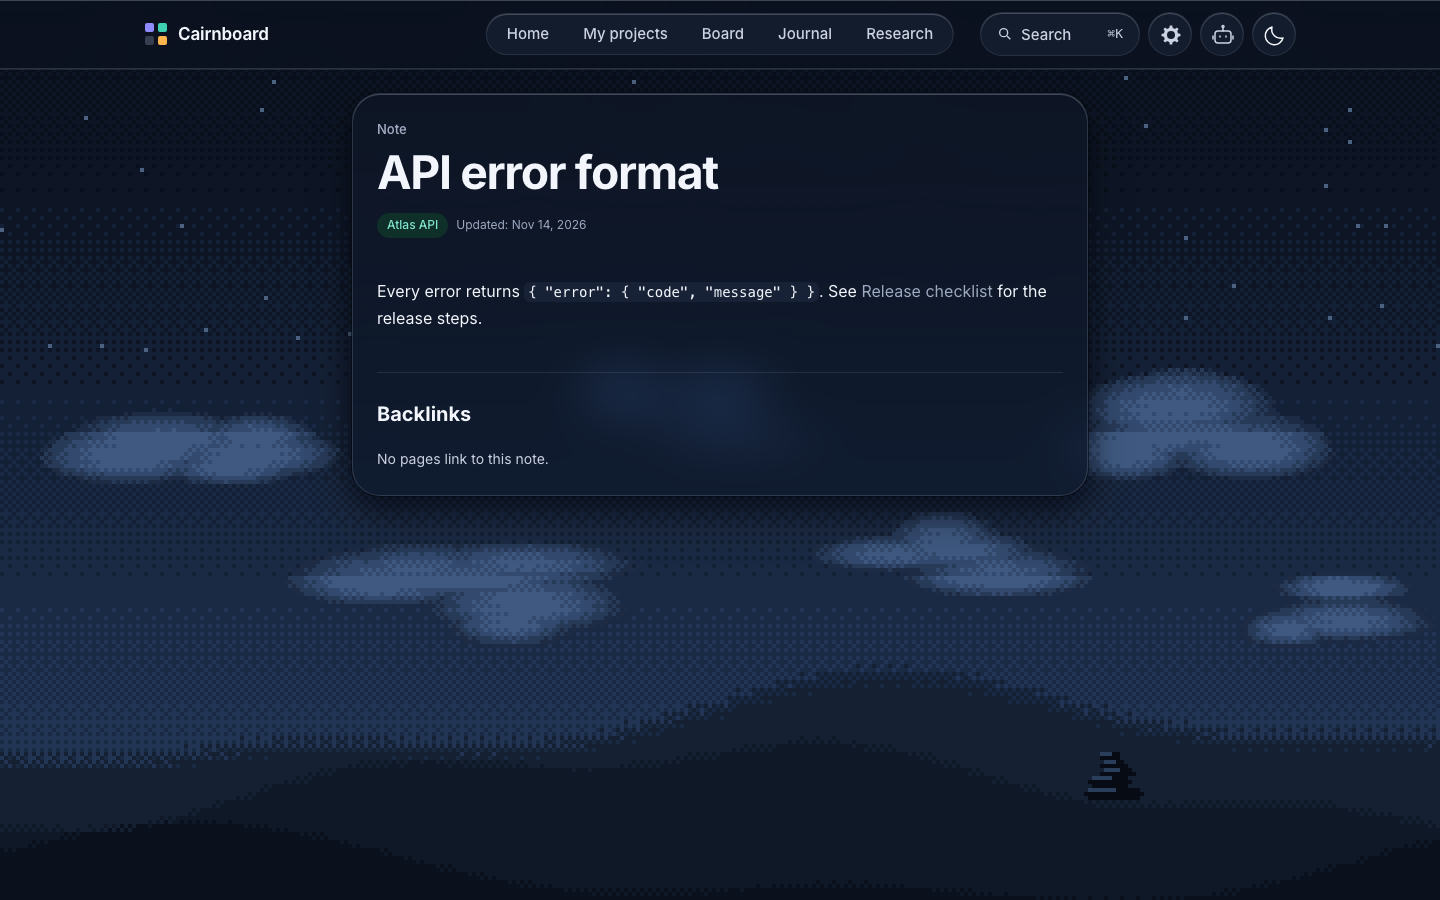
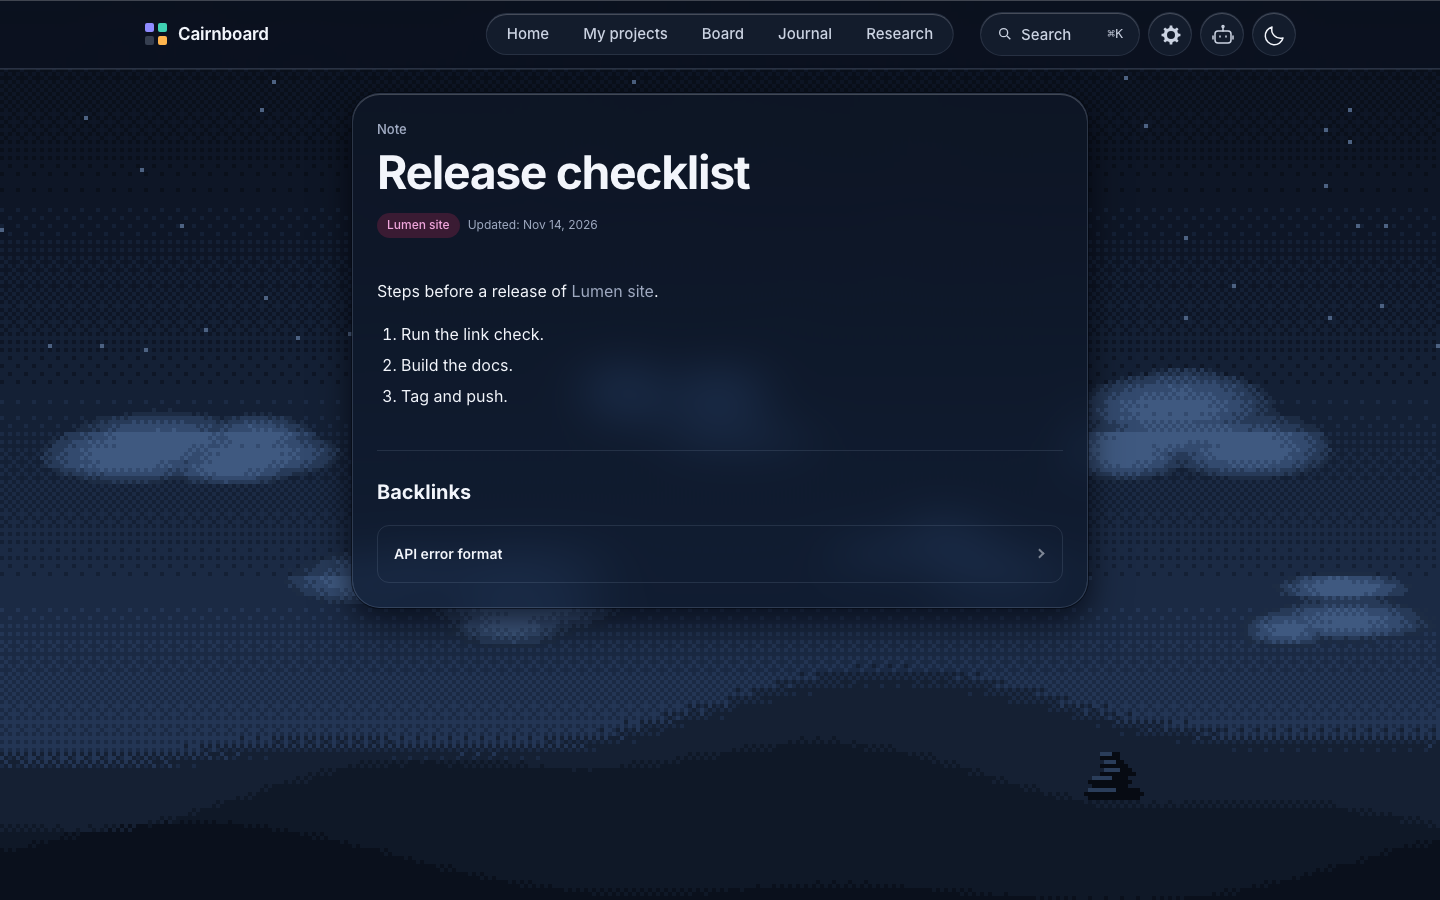
docs: apply README review fixes
- Vault detection example runs as written (built CLI path and --actor).
- The note screenshot shows a backlink; the demo note links by file name.
- English dates use one locale (en-US) in tooltips and metadata.
- Describe the CLI output as a versioned JSON envelope, not stable.
- Document npm run screenshots and its Chromium need; reject a bad --scale.
- The default-language test no longer depends on the caller's environment.

diff --git a/README.tr.md b/README.tr.md
@@ -28,7 +28,7 @@ ilerlemesini yazar ve yaptığını günlüğe kaydeder. Cairnboard ajan başlat
 
 - **Düz dosyalar.** Kartlar, notlar ve günlük günleri ön bilgili (frontmatter) Markdown dosyalarıdır. Her
   düzenleyicide ya da Obsidian'da açılır, Git ile yedeklenir.
-- **Ajanlar için yapıldı.** Sürüm numarası, kira süresi ve çıkış kodlarıyla kararlı bir `--json` komut satırı; ajan
+- **Ajanlar için yapıldı.** Sürüm numarası, kira süresi ve çıkış kodlarıyla sürümlü bir `--json` çıktısı; ajan
   kartı alır, kabul ölçütlerini işaretler ve sizin düzenlemelerinizi ezmeden kapatır.
 - **Birçok proje tek yerde.** Pano, geri bağlantılı wiki, günlük ve ayrı bir ajan panosu.
 - **Yalnız yerel.** Sunucu yalnız bu bilgisayardan erişilir, her sayfa oturum çerezi ister; verileriniz
@@ -61,7 +61,8 @@ npm start
 tarayıcınızı tek kullanımlık bir giriş bağlantısıyla açar. Sonra çalışan sunucuyu `node dist/cairn.mjs open` ile
 yeniden açarsınız (`npm link` yaptıysanız `cairn open`).
 
-Var olan bir Obsidian kasanız mı var? `cairn init --detect "./kasa" --dry-run` klasörlerin nasıl eşleneceğini
+Var olan bir Obsidian kasanız mı var? `node dist/cairn.mjs init --detect "./kasa" --dry-run --actor owner`
+klasörlerin nasıl eşleneceğini
 notlarınıza dokunmadan gösterir. Bkz. [CLI](docs/tr/cli.md).
 
 ## Ajanınızla kullanın
@@ -97,7 +98,7 @@ ayrı bir ajan panosuna taşınır; ajan işi sizinkinden ayrı durur.
 | --- | --- |
 | <picture><source media="(prefers-color-scheme: dark)" srcset="docs/images/home-dark.png"><img src="docs/images/home-light.png" alt="Ana sayfa: çalışma alanı özeti, günlük takvimi ve proje ilerlemesi"></picture> | <picture><source media="(prefers-color-scheme: dark)" srcset="docs/images/card-dark.png"><img src="docs/images/card-light.png" alt="Pencerede açılmış bir kart, Şimdi ve Sonra satırlarıyla"></picture> |
 | Ana sayfa | Kart |
-| <picture><source media="(prefers-color-scheme: dark)" srcset="docs/images/note-dark.png"><img src="docs/images/note-light.png" alt="Başka bir nota bağlantı veren wiki notu ve geri bağlantıları"></picture> | <picture><source media="(prefers-color-scheme: dark)" srcset="docs/images/journal-dark.png"><img src="docs/images/journal-light.png" alt="İki işin, bir kararın ve bir bulgunun yazılı olduğu günlük günü"></picture> |
+| <picture><source media="(prefers-color-scheme: dark)" srcset="docs/images/note-dark.png"><img src="docs/images/note-light.png" alt="Proje bağlantısı ve başka bir nottan gelen geri bağlantısıyla bir wiki notu"></picture> | <picture><source media="(prefers-color-scheme: dark)" srcset="docs/images/journal-dark.png"><img src="docs/images/journal-light.png" alt="İki işin, bir kararın ve bir bulgunun yazılı olduğu günlük günü"></picture> |
 | Wiki notu | Günlük |
 
 Görseller kurgusal veriyle `npm run screenshots` komutuyla üretilir.

diff --git a/README.md b/README.md
@@ -27,8 +27,8 @@ may still change. The interface speaks the data folder's language, English or Tu
 
 - **Plain files.** Cards, notes and journal days are Markdown with frontmatter. Read them in any editor or Obsidian,
   back them up with Git.
-- **Built for agents.** A stable `--json` CLI with revisions, leases and exit codes, so an agent can claim a card,
-  tick its acceptance checks and close it without stepping on your edits.
+- **Built for agents.** A versioned `--json` envelope with revisions, leases and exit codes, so an agent can claim a
+  card, tick its acceptance checks and close it without stepping on your edits.
 - **One place for many projects.** A board, a wiki with backlinks, a journal and a separate agent board.
 - **Local only.** The server listens on loopback and every page needs a sign-in cookie; your data stays on your machine.
 
@@ -59,7 +59,8 @@ npm start
 only and opens your browser with a one-time sign-in link. Later, `node dist/cairn.mjs open` reopens a running
 instance (or `cairn open` after `npm link`).
 
-Already have an Obsidian vault? `cairn init --detect "./vault" --dry-run` previews how its folders would map,
+Already have an Obsidian vault? `node dist/cairn.mjs init --detect "./vault" --dry-run --actor owner`
+previews how its folders would map,
 without touching your notes. See [CLI](docs/cli.md).
 
 ## Use it with your agent
@@ -95,7 +96,7 @@ agent board, so agent work stays apart from yours.
 | --- | --- |
 | <picture><source media="(prefers-color-scheme: dark)" srcset="docs/images/home-dark.png"><img src="docs/images/home-light.png" alt="Home: workspace summary, journal calendar and project progress"></picture> | <picture><source media="(prefers-color-scheme: dark)" srcset="docs/images/card-dark.png"><img src="docs/images/card-light.png" alt="A card open in a dialog with its Now and Next lines"></picture> |
 | Home | Card |
-| <picture><source media="(prefers-color-scheme: dark)" srcset="docs/images/note-dark.png"><img src="docs/images/note-light.png" alt="A wiki note with a link to another note and its backlinks"></picture> | <picture><source media="(prefers-color-scheme: dark)" srcset="docs/images/journal-dark.png"><img src="docs/images/journal-light.png" alt="A journal day with two jobs, a decision and a discovery"></picture> |
+| <picture><source media="(prefers-color-scheme: dark)" srcset="docs/images/note-dark.png"><img src="docs/images/note-light.png" alt="A wiki note with its project link and a backlink from another note"></picture> | <picture><source media="(prefers-color-scheme: dark)" srcset="docs/images/journal-dark.png"><img src="docs/images/journal-light.png" alt="A journal day with two jobs, a decision and a discovery"></picture> |
 | Wiki note | Journal |
 
 Screenshots use fictional data and are generated with `npm run screenshots`.

diff --git a/CONTRIBUTING.md b/CONTRIBUTING.md
@@ -6,6 +6,8 @@
 - Run `npm run check:style` to check changed lines against the Git base (override with `-- --base <ref>`).
 - Tests: `npm test` (Node built-in test runner, no dependencies).
 - Prototype acceptance: `npm run design:check` (requires a browser; see [Checking the prototypes](design/README.md#checking-the-prototypes)).
+- README screenshots: `npm run screenshots` rewrites `docs/images/` from fictional data (dates change, so run it only
+  when the UI changed). It needs Playwright's Chromium: `npx playwright-core install chromium`, or `CAIRN_BROWSER_PATH`.
 - Never put personal data (names, e-mail addresses, home paths, machine names) into files, commit messages,
   branch names or pull request descriptions. Use `example.com` and invented names in tests.
 
